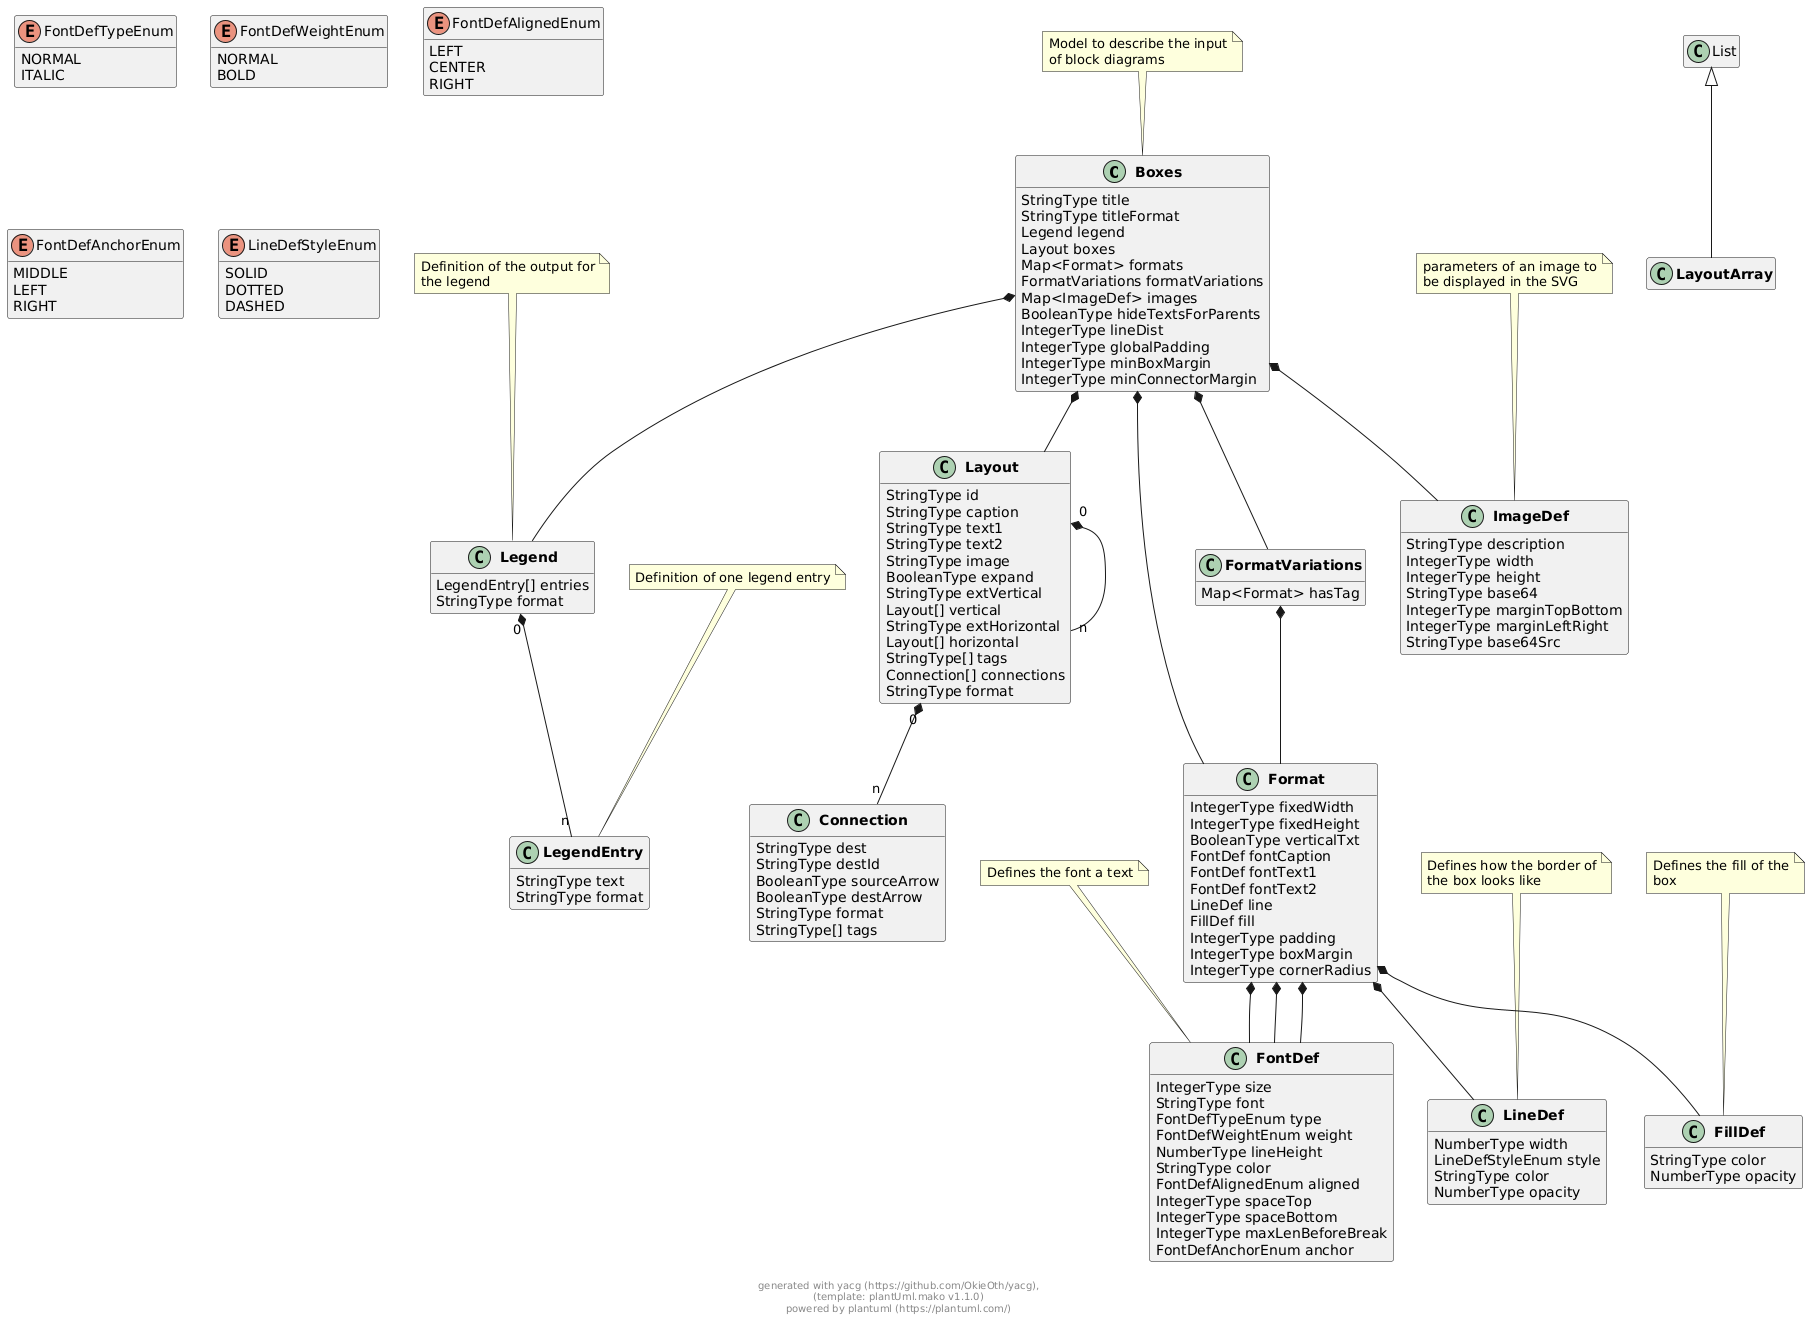
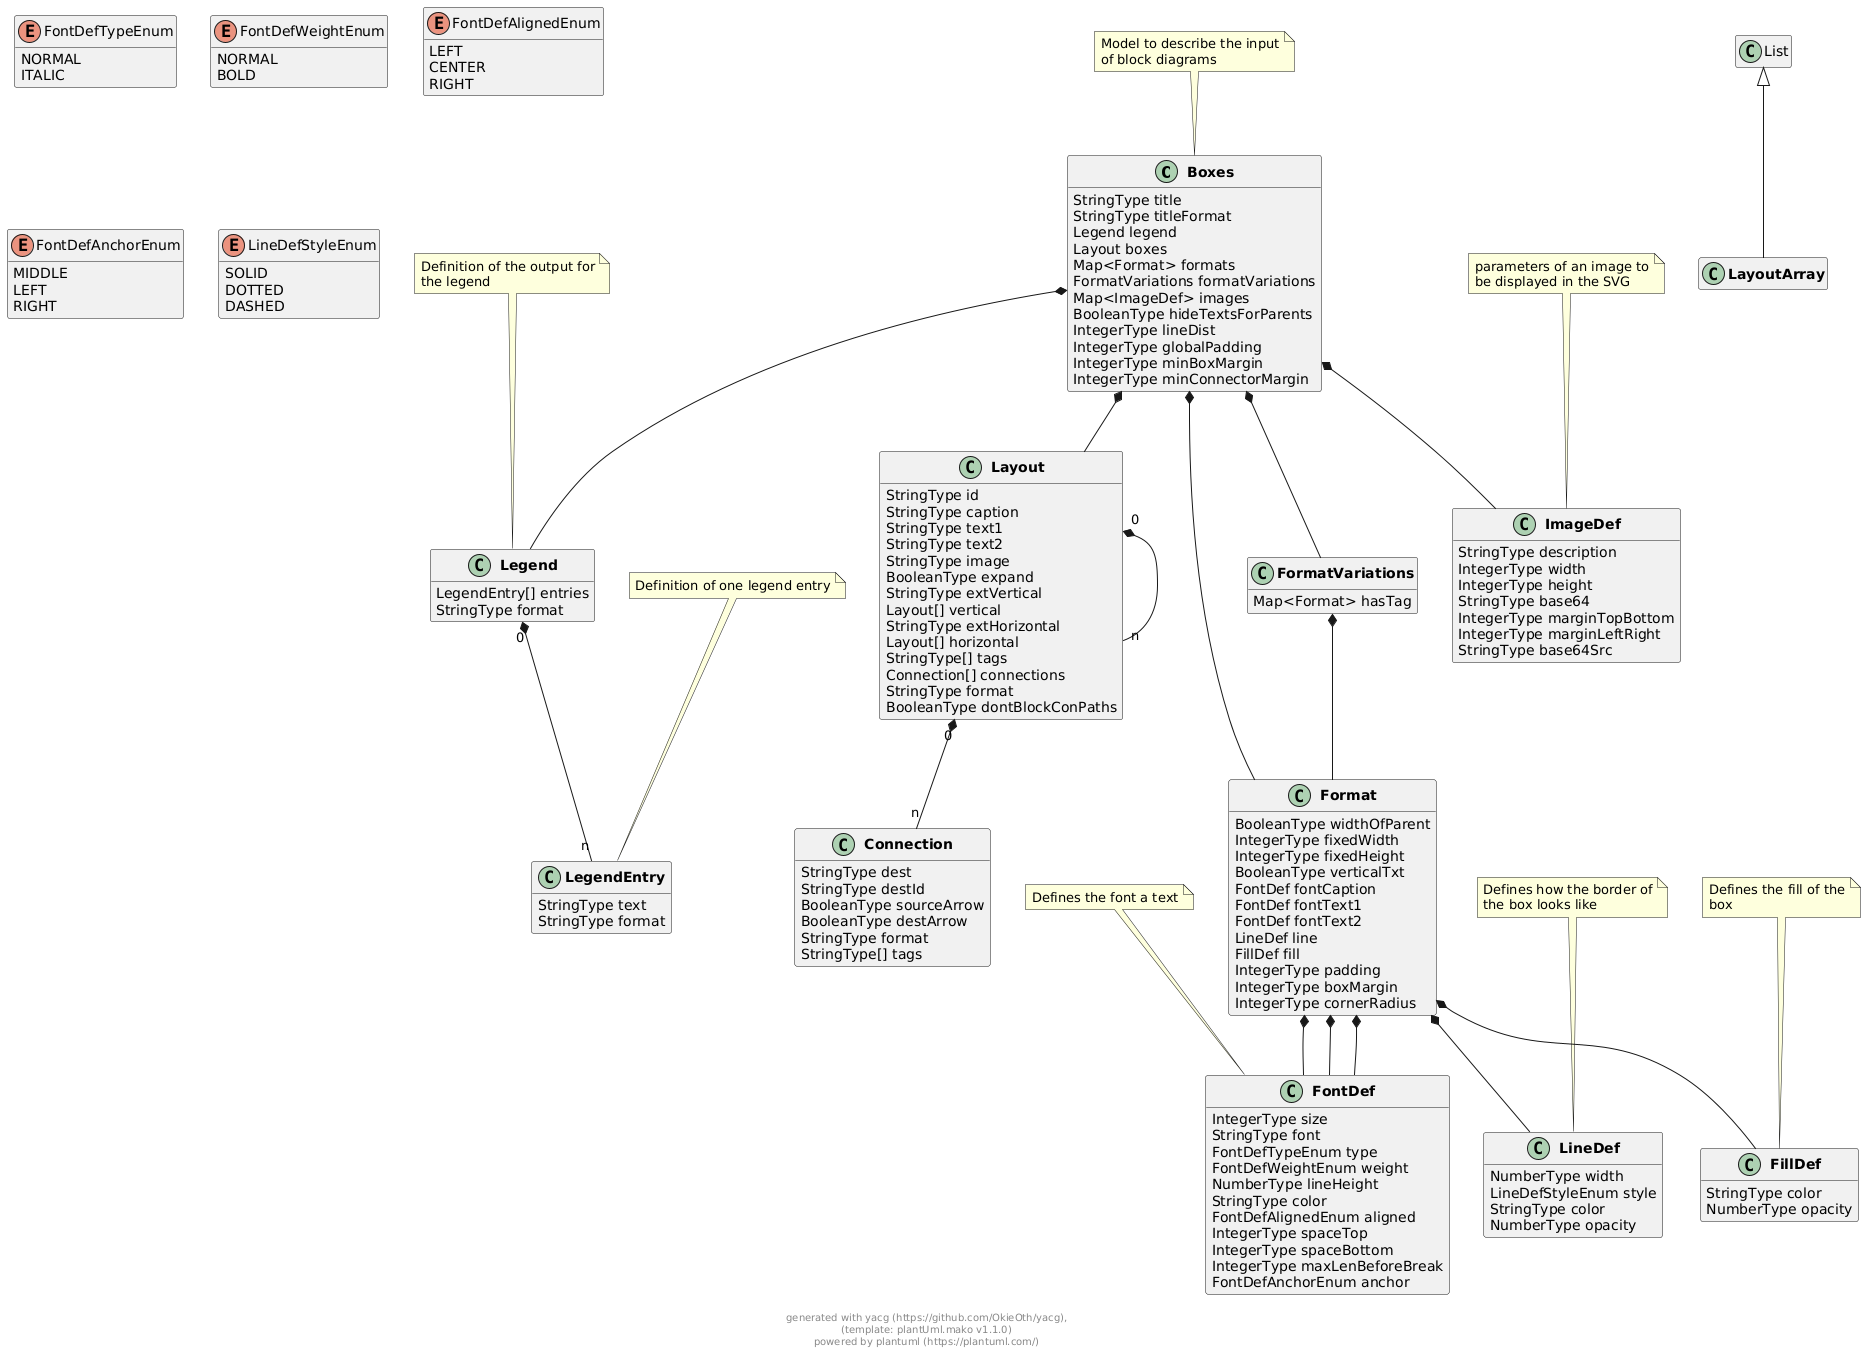
introduce dontBlockConnections for boxes

diff --git a/pkg/boxesimpl/boxesdocfactory.go b/pkg/boxesimpl/boxesdocfactory.go
@@ -54,6 +54,7 @@ func initBoxFormat(f *boxes.Format) boxes.BoxFormat {
 	padding := types.GlobalPadding
 	boxMargin := types.GlobalMinBoxMargin
 	var fixedHeight, fixedWidth, cornerRadius *int
+	var widthOfParent *bool
 	if f != nil {
 		fontCaption = f.FontCaption
 		fontText1 = f.FontText1
@@ -76,20 +77,22 @@ func initBoxFormat(f *boxes.Format) boxes.BoxFormat {
 		fixedHeight = f.FixedHeight
 		fixedWidth = f.FixedWidth
 		cornerRadius = f.CornerRadius
+		widthOfParent = f.WidthOfParent
 	}
 
 	return boxes.BoxFormat{
-		Padding:      padding,
-		MinBoxMargin: boxMargin,
-		FontCaption:  types.InitFontDef(fontCaption, "sans-serif", 10, true, false, 0),
-		FontText1:    types.InitFontDef(fontText1, "serif", 8, false, false, 10),
-		FontText2:    types.InitFontDef(fontText2, "monospace", 8, false, true, 10),
-		Line:         border,
-		Fill:         fill,
-		FixedWidth:   fixedWidth,
-		FixedHeight:  fixedHeight,
-		VerticalTxt:  verticalTxt,
-		CornerRadius: cornerRadius,
+		Padding:       padding,
+		MinBoxMargin:  boxMargin,
+		FontCaption:   types.InitFontDef(fontCaption, "sans-serif", 10, true, false, 0),
+		FontText1:     types.InitFontDef(fontText1, "serif", 8, false, false, 10),
+		FontText2:     types.InitFontDef(fontText2, "monospace", 8, false, true, 10),
+		Line:          border,
+		Fill:          fill,
+		FixedWidth:    fixedWidth,
+		FixedHeight:   fixedHeight,
+		WidthOfParent: widthOfParent,
+		VerticalTxt:   verticalTxt,
+		CornerRadius:  cornerRadius,
 	}
 }
 
@@ -104,6 +107,7 @@ func adjustBoxFormat(f *boxes.BoxFormat, adjustment *boxes.Format) boxes.BoxForm
 	padding := types.GlobalPadding
 	boxMargin := types.GlobalMinBoxMargin
 	var fixedHeight, fixedWidth, cornerRadius *int
+	var widthOfParent *bool
 	if f != nil {
 		fontCaption = &f.FontCaption
 		fontText1 = &f.FontText1
@@ -120,21 +124,23 @@ func adjustBoxFormat(f *boxes.BoxFormat, adjustment *boxes.Format) boxes.BoxForm
 		}
 		fixedHeight = f.FixedHeight
 		fixedWidth = f.FixedWidth
+		widthOfParent = f.WidthOfParent
 		cornerRadius = f.CornerRadius
 	}
 
 	ret := boxes.BoxFormat{
-		Padding:      padding,
-		MinBoxMargin: boxMargin,
-		FontCaption:  types.InitFontDef(fontCaption, "sans-serif", 10, true, false, 0),
-		FontText1:    types.InitFontDef(fontText1, "serif", 8, false, false, 10),
-		FontText2:    types.InitFontDef(fontText2, "monospace", 8, false, true, 10),
-		Line:         border,
-		Fill:         fill,
-		FixedWidth:   fixedWidth,
-		FixedHeight:  fixedHeight,
-		VerticalTxt:  verticalTxt,
-		CornerRadius: cornerRadius,
+		Padding:       padding,
+		MinBoxMargin:  boxMargin,
+		FontCaption:   types.InitFontDef(fontCaption, "sans-serif", 10, true, false, 0),
+		FontText1:     types.InitFontDef(fontText1, "serif", 8, false, false, 10),
+		FontText2:     types.InitFontDef(fontText2, "monospace", 8, false, true, 10),
+		Line:          border,
+		Fill:          fill,
+		FixedWidth:    fixedWidth,
+		FixedHeight:   fixedHeight,
+		WidthOfParent: widthOfParent,
+		VerticalTxt:   verticalTxt,
+		CornerRadius:  cornerRadius,
 	}
 
 	if adjustment != nil {
@@ -268,15 +274,16 @@ func initLayoutElement(l *boxes.Layout, inputFormats map[string]boxes.BoxFormat,
 		text2 = l.Text2
 	}
 	return boxes.LayoutElement{
-		Id:          l.Id,
-		Caption:     l.Caption,
-		Text1:       text1,
-		Text2:       text2,
-		Image:       initImage(l, b.Images),
-		Vertical:    initLayoutElemContainer(l.Vertical, inputFormats, connectedIds, b),
-		Horizontal:  initLayoutElemContainer(l.Horizontal, inputFormats, connectedIds, b),
-		Format:      adjustFormatBasedOnVariations(l, b, f),
-		Connections: initConnections(l.Connections, inputFormats),
+		Id:                l.Id,
+		Caption:           l.Caption,
+		Text1:             text1,
+		Text2:             text2,
+		Image:             initImage(l, b.Images),
+		Vertical:          initLayoutElemContainer(l.Vertical, inputFormats, connectedIds, b),
+		Horizontal:        initLayoutElemContainer(l.Horizontal, inputFormats, connectedIds, b),
+		Format:            adjustFormatBasedOnVariations(l, b, f),
+		DontBlockConPaths: l.DontBlockConPaths,
+		Connections:       initConnections(l.Connections, inputFormats),
 	}
 }
 

diff --git a/pkg/types/boxes/connect.go b/pkg/types/boxes/connect.go
@@ -82,19 +82,30 @@ func (doc *BoxesDocument) checkColl(x, y int, currentElem, startElem, endElem *L
 		}
 		if !currentElemIsParentToStart && !currentElemIsParentToEnd {
 			// end - not needed any longer because only roads need that this function
-			curMinX := currentElem.X
-			curMaxX := currentElem.X + currentElem.Width
-			curMinY := currentElem.Y
-			curMaxY := currentElem.Y + currentElem.Height
-			if (x <= curMaxX) && (x >= curMinX) &&
-				(y >= curMinY) && (y <= curMaxY) {
-				return CollisionType_WithElem
+			if currentElem.XTextBox != nil && currentElem.DontBlockConPaths != nil && *currentElem.DontBlockConPaths {
+				curMinX := *currentElem.XTextBox
+				curMaxX := *currentElem.XTextBox + *currentElem.WidthTextBox
+				curMinY := *currentElem.YTextBox
+				curMaxY := *currentElem.YTextBox + *currentElem.HeightTextBox
+				if (x <= curMaxX) && (x >= curMinX) &&
+					(y >= curMinY) && (y <= curMaxY) {
+					return CollisionType_WithElem
+				}
+
+			} else {
+				curMinX := currentElem.X
+				curMaxX := currentElem.X + currentElem.Width
+				curMinY := currentElem.Y
+				curMaxY := currentElem.Y + currentElem.Height
+				if (x <= curMaxX) && (x >= curMinX) &&
+					(y >= curMinY) && (y <= curMaxY) {
+					return CollisionType_WithElem
+				}
+				if (x <= (curMaxX + types.RasterSize)) && (x >= (curMinX - types.RasterSize)) &&
+					(y >= (curMinY - types.RasterSize)) && (y <= (curMaxY + types.RasterSize)) {
+					return CollisionType_WithSurroundings
+				}
 			}
-			if (x <= (curMaxX + types.RasterSize)) && (x >= (curMinX - types.RasterSize)) &&
-				(y >= (curMinY - types.RasterSize)) && (y <= (curMaxY + types.RasterSize)) {
-				return CollisionType_WithSurroundings
-			}
-			// start - not needed any longer because only roads need that this function
 		}
 		// not needed any longer because only roads need that this function
 		if currentElemIsParentToStart {

diff --git a/pkg/types/boxes/boxesdoc.go b/pkg/types/boxes/boxesdoc.go
@@ -209,6 +209,9 @@ type LayoutElement struct {
     // Height of the text area
     HeightTextBox *int  `yaml:"heightTextBox,omitempty"`
 
+    // if that is set then connections can run through the box, as long as they don't cross the text
+    DontBlockConPaths *bool  `yaml:"dontBlockConPaths,omitempty"`
+
     // Tags to annotate the box, tags are used to format and filter
     Tags []string  `yaml:"tags,omitempty"`
 }
@@ -253,6 +256,7 @@ func CopyLayoutElement(src *LayoutElement) *LayoutElement {
     ret.YTextBox = src.YTextBox
     ret.WidthTextBox = src.WidthTextBox
     ret.HeightTextBox = src.HeightTextBox
+    ret.DontBlockConPaths = src.DontBlockConPaths
     ret.Tags = make([]string, 0)
     for _, e := range src.Tags {
         ret.Tags = append(ret.Tags, e)
@@ -340,6 +344,9 @@ type BoxFormat struct {
     // Minimum margin between boxes
     MinBoxMargin int  `yaml:"minBoxMargin"`
 
+    // sets the width of the object to the width of the parent
+    WidthOfParent *bool  `yaml:"widthOfParent,omitempty"`
+
     // optional fixed width that will be applied on the box
     FixedWidth *int  `yaml:"fixedWidth,omitempty"`
 
@@ -364,6 +371,7 @@ func CopyBoxFormat(src *BoxFormat) *BoxFormat {
     ret.CornerRadius = src.CornerRadius
     ret.Fill = types.CopyFillDef(src.Fill)
     ret.MinBoxMargin = src.MinBoxMargin
+    ret.WidthOfParent = src.WidthOfParent
     ret.FixedWidth = src.FixedWidth
     ret.FixedHeight = src.FixedHeight
     ret.VerticalTxt = src.VerticalTxt

diff --git a/pkg/types/boxes/boxes.go b/pkg/types/boxes/boxes.go
@@ -162,6 +162,9 @@ type Layout struct {
 
     // reference to the format to use for this box
     Format *string  `yaml:"format,omitempty"`
+
+    // if that is set then connections can run through the box, as long as they don't cross the text
+    DontBlockConPaths *bool  `yaml:"dontBlockConPaths,omitempty"`
 }
 
 func NewLayout() *Layout {
@@ -203,6 +206,7 @@ func CopyLayout(src *Layout) *Layout {
         ret.Connections = append(ret.Connections, e)
     }
     ret.Format = src.Format
+    ret.DontBlockConPaths = src.DontBlockConPaths
 
     return &ret
 }
@@ -215,6 +219,9 @@ func CopyLayout(src *Layout) *Layout {
 
 
 type Format struct {
+
+    // sets the width of the object to the width of the parent
+    WidthOfParent *bool  `yaml:"widthOfParent,omitempty"`
 
     // optional fixed width that will be applied on the box
     FixedWidth *int  `yaml:"fixedWidth,omitempty"`
@@ -251,6 +258,7 @@ func CopyFormat(src *Format) *Format {
         return nil
     }
     var ret Format
+    ret.WidthOfParent = src.WidthOfParent
     ret.FixedWidth = src.FixedWidth
     ret.FixedHeight = src.FixedHeight
     ret.VerticalTxt = src.VerticalTxt

diff --git a/pkg/types/boxes/layout.go b/pkg/types/boxes/layout.go
@@ -414,11 +414,30 @@ func (l *LayoutElement) InitDimensions(c types.TextDimensionCalculator) {
 	if l.Horizontal != nil {
 		l.initHorizontal(c, yInnerOffset)
 	}
+	l.adjustToParentWidth(l.Vertical)   // doesn't go recursive through the children
+	l.adjustToParentWidth(l.Horizontal) // doesn't go recursive through the children
+
 	xTextBox := l.X + (l.Width-textWidth)/2
 	l.XTextBox = &xTextBox
 	l.YTextBox = &yTextBox
 	if l.Image != nil {
 		l.Image.X = l.X + ((l.Width - l.Image.Width - l.Image.MarginLeftRight - l.Image.MarginLeftRight) / 2)
+	}
+}
+
+func (l *LayoutElement) adjustToParentWidth(cont *LayoutElemContainer) {
+	if cont != nil {
+		for i := range len(cont.Elems) {
+			e := &cont.Elems[i]
+			if e.Format != nil && e.Format.WidthOfParent != nil && *e.Format.WidthOfParent {
+				e.Width = cont.Width
+				e.X = cont.X
+				if e.XTextBox != nil {
+					x := e.X + ((e.Width - *e.WidthTextBox) / 2)
+					e.XTextBox = &x
+				}
+			}
+		}
 	}
 }
 

diff --git a/pkg/types/boxes/roads.go b/pkg/types/boxes/roads.go
@@ -282,13 +282,13 @@ func (doc *BoxesDocument) initRoadsImpl(elem *LayoutElement, defRoadType DefRoad
 	}
 	if elem.Vertical != nil {
 		for i := range len(elem.Vertical.Elems) {
-			defRoadType := DefRoadType_Vertical
+			defRoadType := DefRoadType_All
 			doc.initRoadsImpl(&elem.Vertical.Elems[i], defRoadType)
 		}
 	}
 	if elem.Horizontal != nil {
 		for i := range len(elem.Horizontal.Elems) {
-			defRoadType := DefRoadType_Horizontal
+			defRoadType := DefRoadType_All
 			doc.initRoadsImpl(&elem.Horizontal.Elems[i], defRoadType)
 		}
 	}
